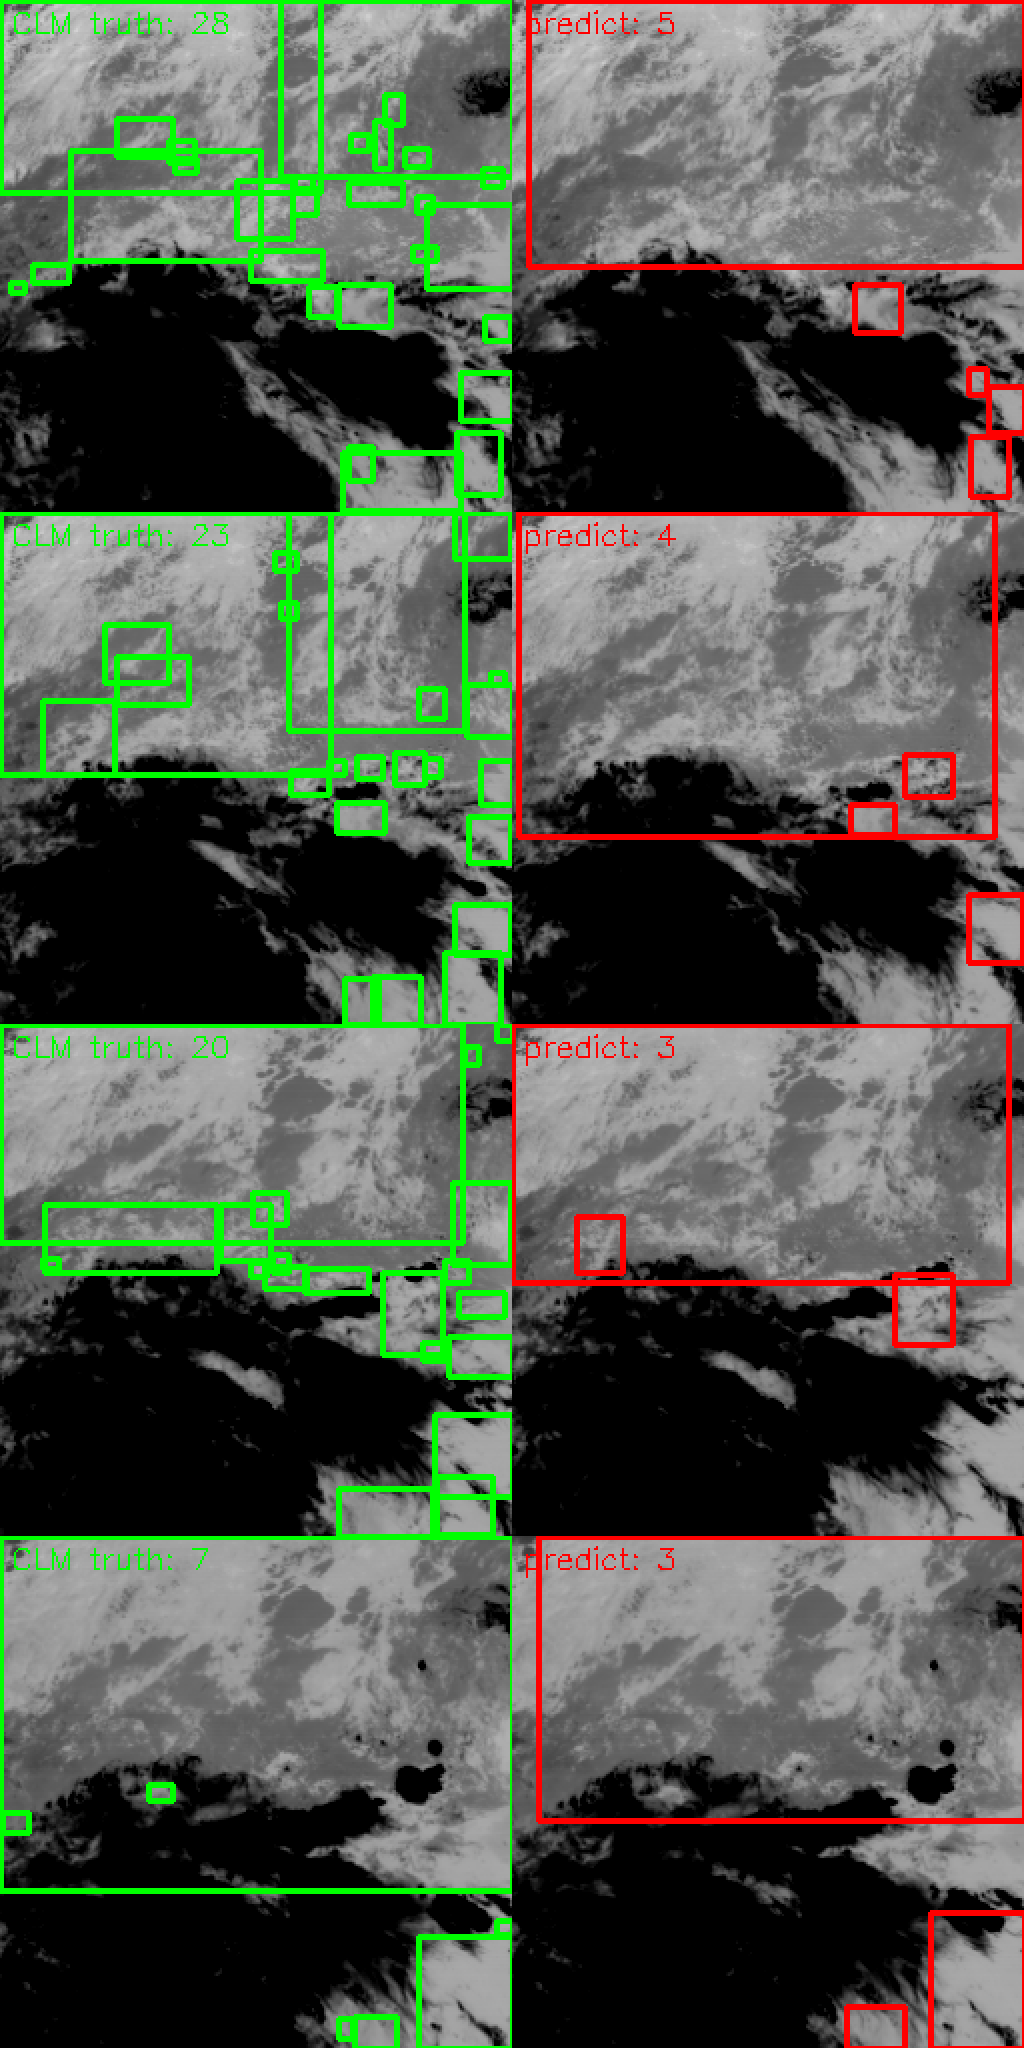
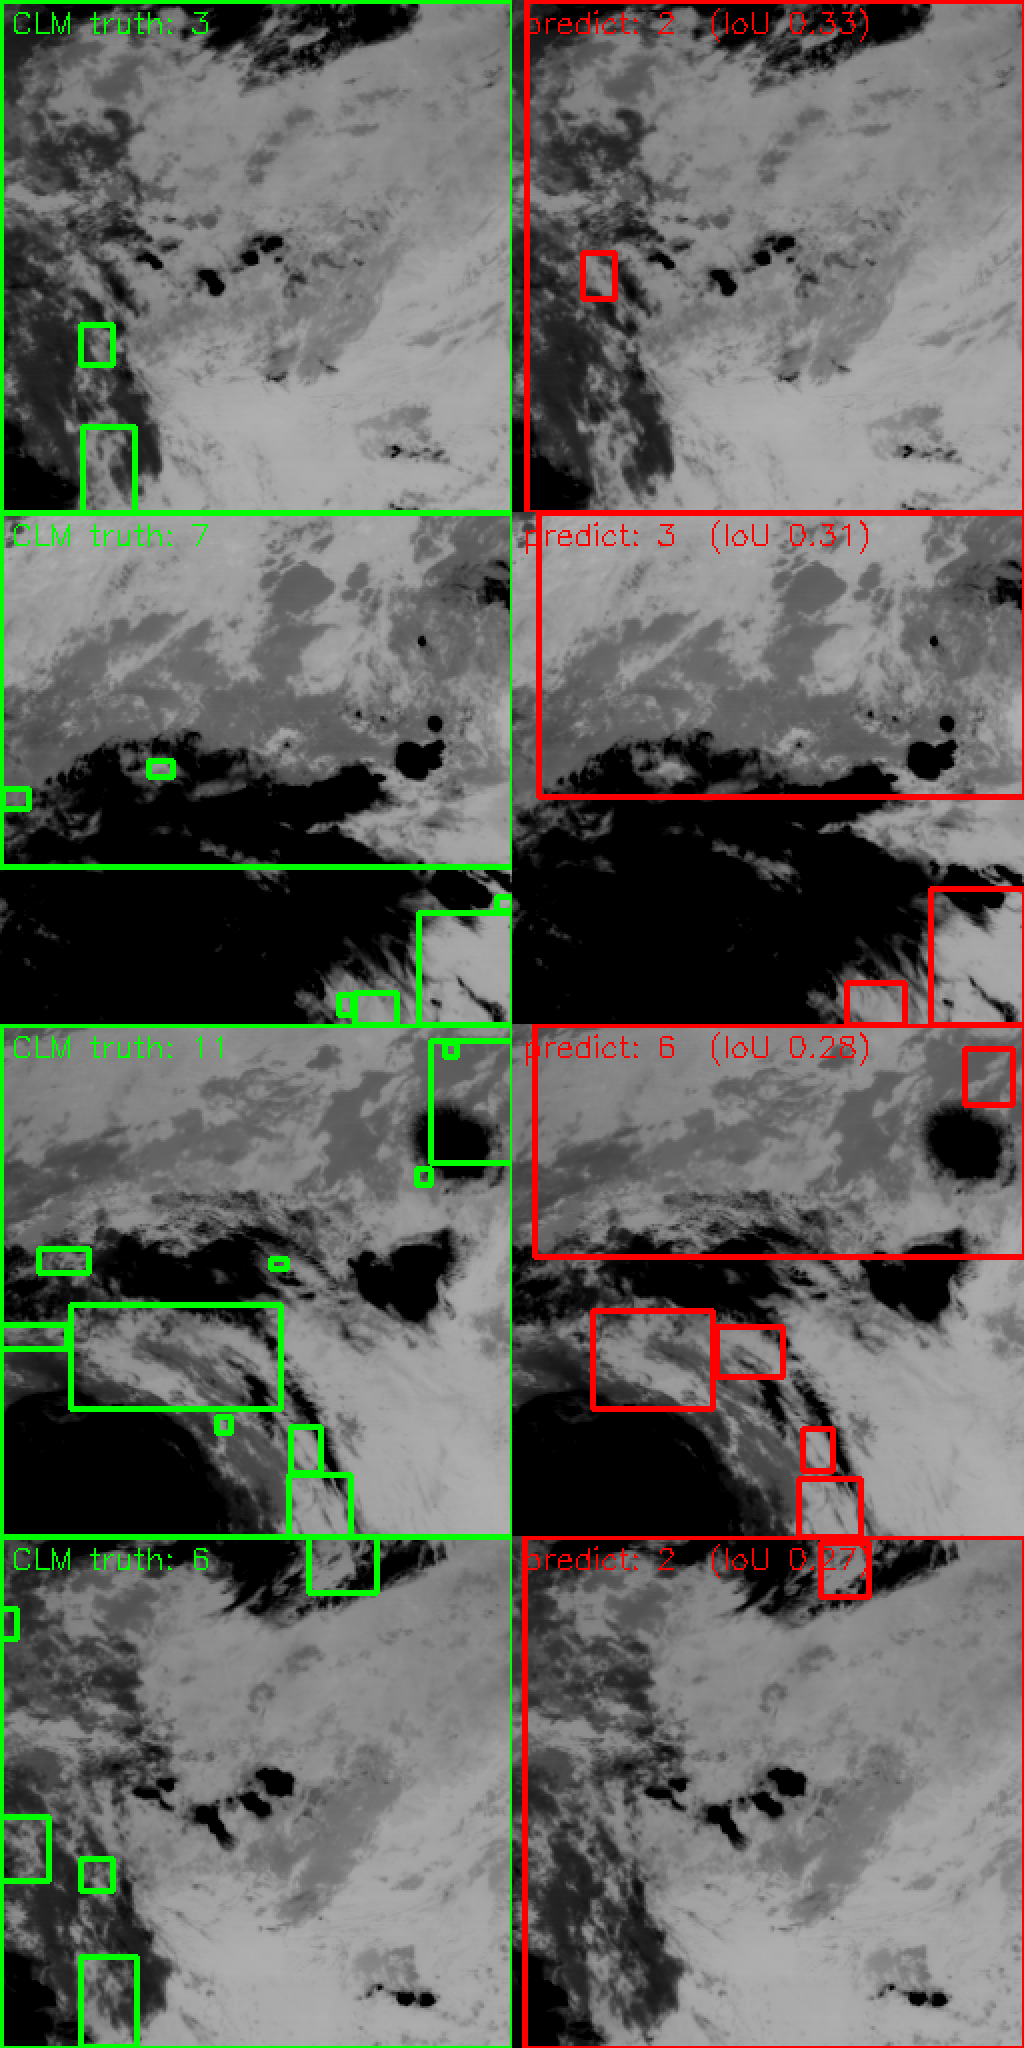
feat(vision): 检测对比图改为按 IoU 匹配度选最准样例

diff --git a/vision/predict_visualize_cv.py b/vision/predict_visualize_cv.py
@@ -1,5 +1,5 @@
 # -*- coding: utf-8 -*-
-"""cv2 版：best.pt 检测云团，绿框=CLM真值，红框=模型预测，拼接对比。"""
+"""cv2 版：best.pt 检测云团，按 IoU 匹配度挑检测最准的 N 张，绿框=真值、红框=预测。"""
 import os
 import glob
 import sys
@@ -18,6 +18,26 @@ WEIGHTS = "D:/yolov-test/runs/cloud_test/exp7/weights/best.pt"
 IMG_DIR = "D:/pv-probabilistic-forecast/vision/cloud_dataset_crop_ir/images/val"
 LBL_DIR = "D:/pv-probabilistic-forecast/vision/cloud_dataset_crop_ir/labels/val"
 OUT = "D:/pv-probabilistic-forecast/vision/output/predict_compare_cv.png"
+TOP_N = 4
+
+
+def box_iou(a, b):
+    x1 = max(a[0], b[0]); y1 = max(a[1], b[1])
+    x2 = min(a[2], b[2]); y2 = min(a[3], b[3])
+    inter = max(0, x2 - x1) * max(0, y2 - y1)
+    area_a = (a[2] - a[0]) * (a[3] - a[1])
+    area_b = (b[2] - b[0]) * (b[3] - b[1])
+    union = area_a + area_b - inter
+    return inter / union if union > 0 else 0.0
+
+
+def match_score(trueb, predb):
+    """每个真值框找最匹配预测框的平均 IoU（衡量检测准不准）。"""
+    if not trueb:
+        return 1.0 if not predb else 0.0
+    if not predb:
+        return 0.0
+    return float(np.mean([max(box_iou(gt, pd) for pd in predb) for gt in trueb]))
 
 
 def main():
@@ -49,32 +69,35 @@ def main():
                           int((cx + w / 2) * W), int((cy + h / 2) * H)))
         return boxes
 
-    paths = sorted(glob.glob(os.path.join(IMG_DIR, "*.png")))[:4]
-    rows = []
-    for p in paths:
+    # 检测所有 val 图，算 IoU 匹配度
+    results = []
+    for p in sorted(glob.glob(os.path.join(IMG_DIR, "*.png"))):
         name = os.path.splitext(os.path.basename(p))[0]
         g = cv2.imread(p, cv2.IMREAD_GRAYSCALE)
         if g.ndim == 3:
             g = g[:, :, 0]
         H, W = g.shape
         bgr = cv2.cvtColor(g, cv2.COLOR_GRAY2BGR)
-
         det = predict(bgr)
         predb = [(int(d[0]), int(d[1]), int(d[2]), int(d[3])) for d in det]
         trueb = read_true(os.path.join(LBL_DIR, name + ".txt"), W, H)
+        score = match_score(trueb, predb)
+        results.append((score, p, name, bgr, predb, trueb))
 
+    # 按匹配度选最准的 TOP_N 张
+    results.sort(key=lambda r: -r[0])
+    rows = []
+    for score, p, name, bgr, predb, trueb in results[:TOP_N]:
         t = bgr.copy()
         for (x1, y1, x2, y2) in trueb:
             cv2.rectangle(t, (x1, y1), (x2, y2), (0, 255, 0), 2)
         pr = bgr.copy()
         for (x1, y1, x2, y2) in predb:
             cv2.rectangle(pr, (x1, y1), (x2, y2), (0, 0, 255), 2)
-
         cv2.putText(t, "CLM truth: %d" % len(trueb), (5, 16),
                     cv2.FONT_HERSHEY_SIMPLEX, 0.5, (0, 255, 0), 1)
-        cv2.putText(pr, "predict: %d" % len(predb), (5, 16),
+        cv2.putText(pr, "predict: %d  (IoU %.2f)" % (len(predb), score), (5, 16),
                     cv2.FONT_HERSHEY_SIMPLEX, 0.5, (0, 0, 255), 1)
-
         t = cv2.resize(t, (512, 512), interpolation=cv2.INTER_NEAREST)
         pr = cv2.resize(pr, (512, 512), interpolation=cv2.INTER_NEAREST)
         rows.append(np.hstack([t, pr]))
@@ -82,6 +105,7 @@ def main():
     out = np.vstack(rows)
     cv2.imwrite(OUT, out)
     print("saved", OUT, "shape", out.shape)
+    print("选出的 Top%d 张 IoU 匹配度:" % TOP_N, [round(r[0], 3) for r in results[:TOP_N]])
 
 
 if __name__ == "__main__":
